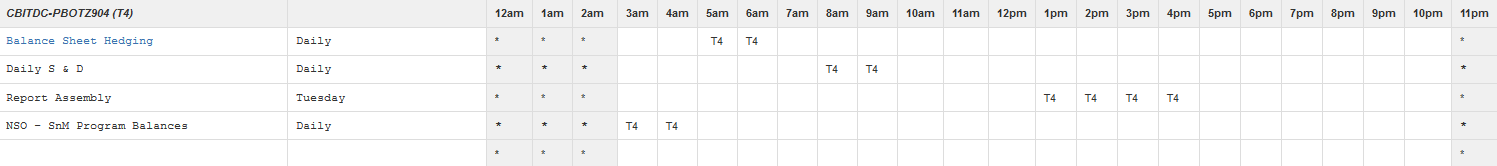
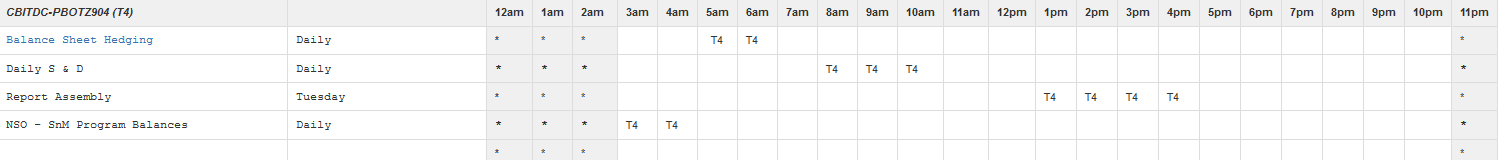
S&D Daily Sched Update

diff --git a/js/openBotsSchedule.js b/js/openBotsSchedule.js
@@ -134,11 +134,11 @@ self.botSched = function botSched(){
 	
 	//CBITDC_PBOTZ904
     self.CBITDCxPBOTZ904 = {
-		Monday:    ["Balance Sheet Hedging:*5*6*;Daily S&D:*8*9*;SnM Program Balances:*3*4*",3,4,5,6,8,9],
-		Tuesday:   ["Balance Sheet Hedging:*5*6*;Daily S&D:*8*9*;SnM Program Balances:*3*4*;Report Assembly:*13*14*15*16*",3,4,5,6,8,9,13,14,15,16],
-		Wednesday: ["Balance Sheet Hedging:*5*6*;Daily S&D:*8*9*;SnM Program Balances:*3*4*",3,4,5,6,8,9],
-		Thursday:  ["Balance Sheet Hedging:*5*6*;Daily S&D:*8*9*;SnM Program Balances:*3*4*",3,4,5,6,8,9],
-		Friday:    ["Balance Sheet Hedging:*5*6*;Daily S&D:*8*9*;SnM Program Balances:*3*4*",3,4,5,6,8,9]
+		Monday:    ["Balance Sheet Hedging:*5*6*;Daily S&D:*8*9*10*;SnM Program Balances:*3*4*",3,4,5,6,8,9,10],
+		Tuesday:   ["Balance Sheet Hedging:*5*6*;Daily S&D:*8*9*10*;SnM Program Balances:*3*4*;Report Assembly:*13*14*15*16*",3,4,5,6,8,9,10,13,14,15,16],
+		Wednesday: ["Balance Sheet Hedging:*5*6*;Daily S&D:*8*9*10*;SnM Program Balances:*3*4*",3,4,5,6,8,9,10],
+		Thursday:  ["Balance Sheet Hedging:*5*6*;Daily S&D:*8*9*10*;SnM Program Balances:*3*4*",3,4,5,6,8,9,10],
+		Friday:    ["Balance Sheet Hedging:*5*6*;Daily S&D:*8*9*10*;SnM Program Balances:*3*4*",3,4,5,6,8,9,10]
 	}
 	
 	//CBITDC_PBOTZ960
